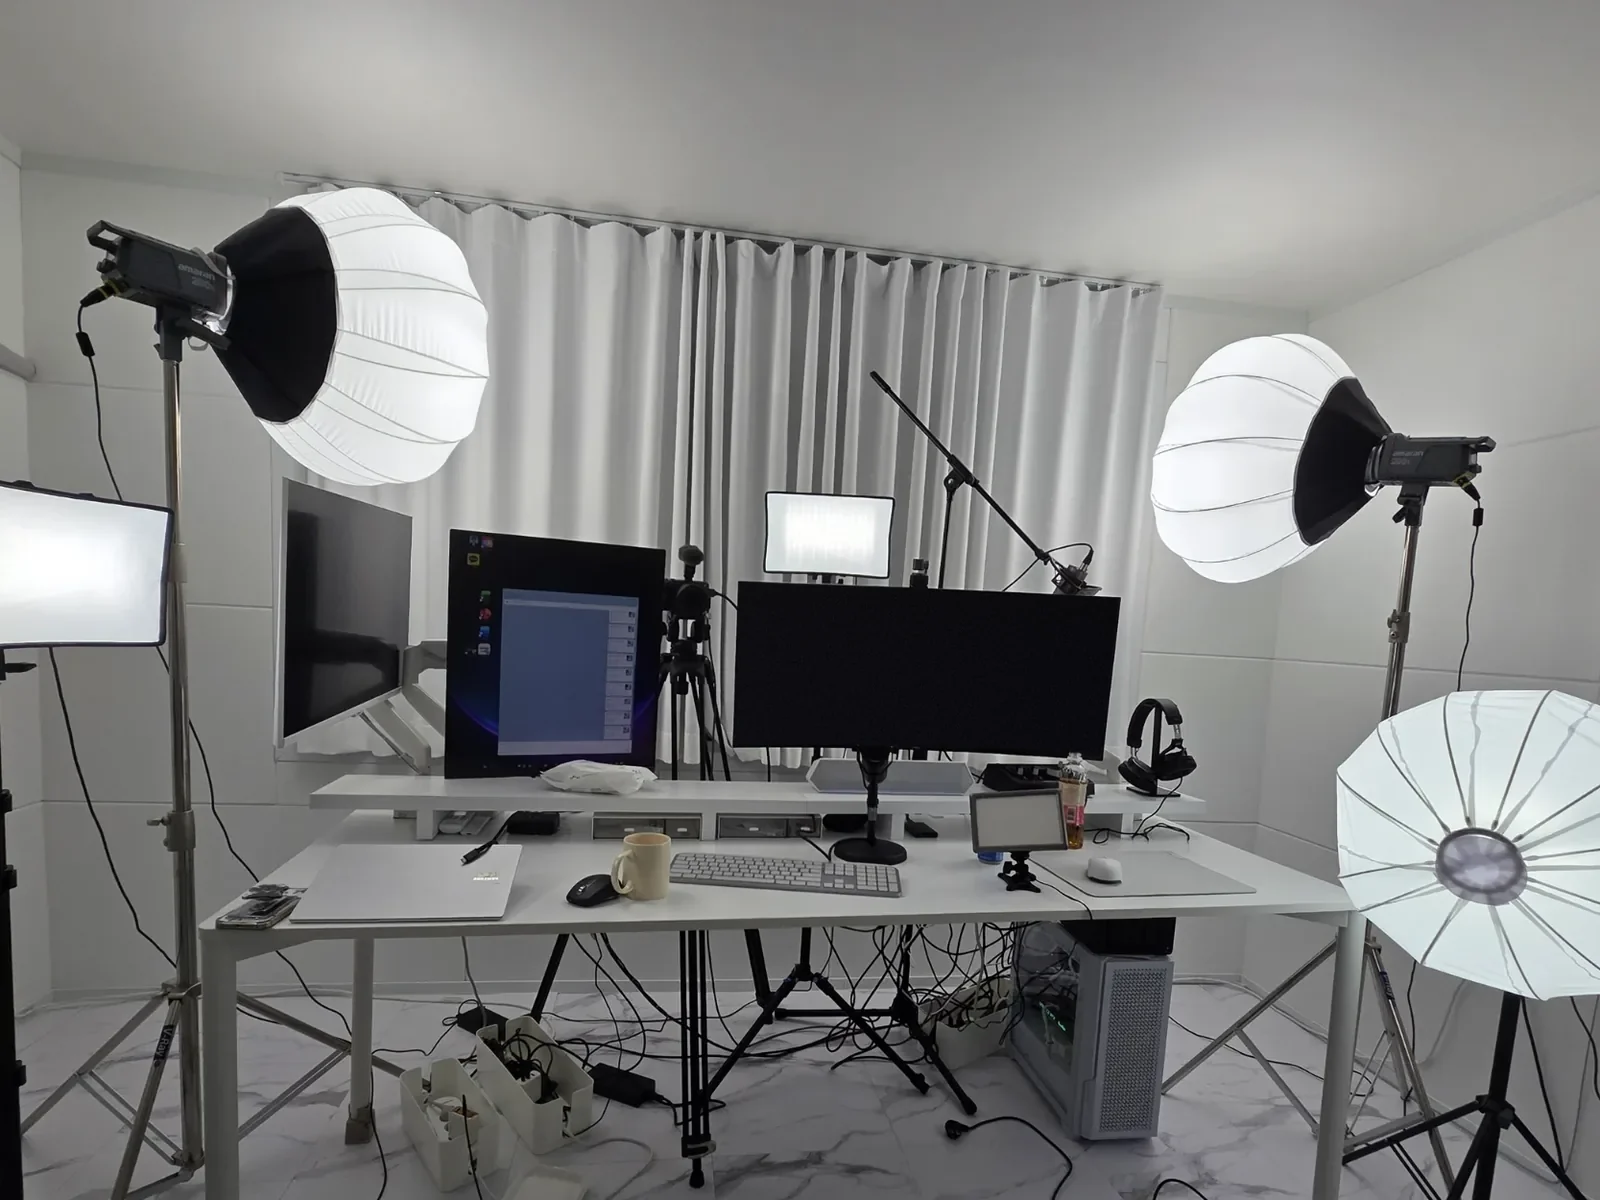
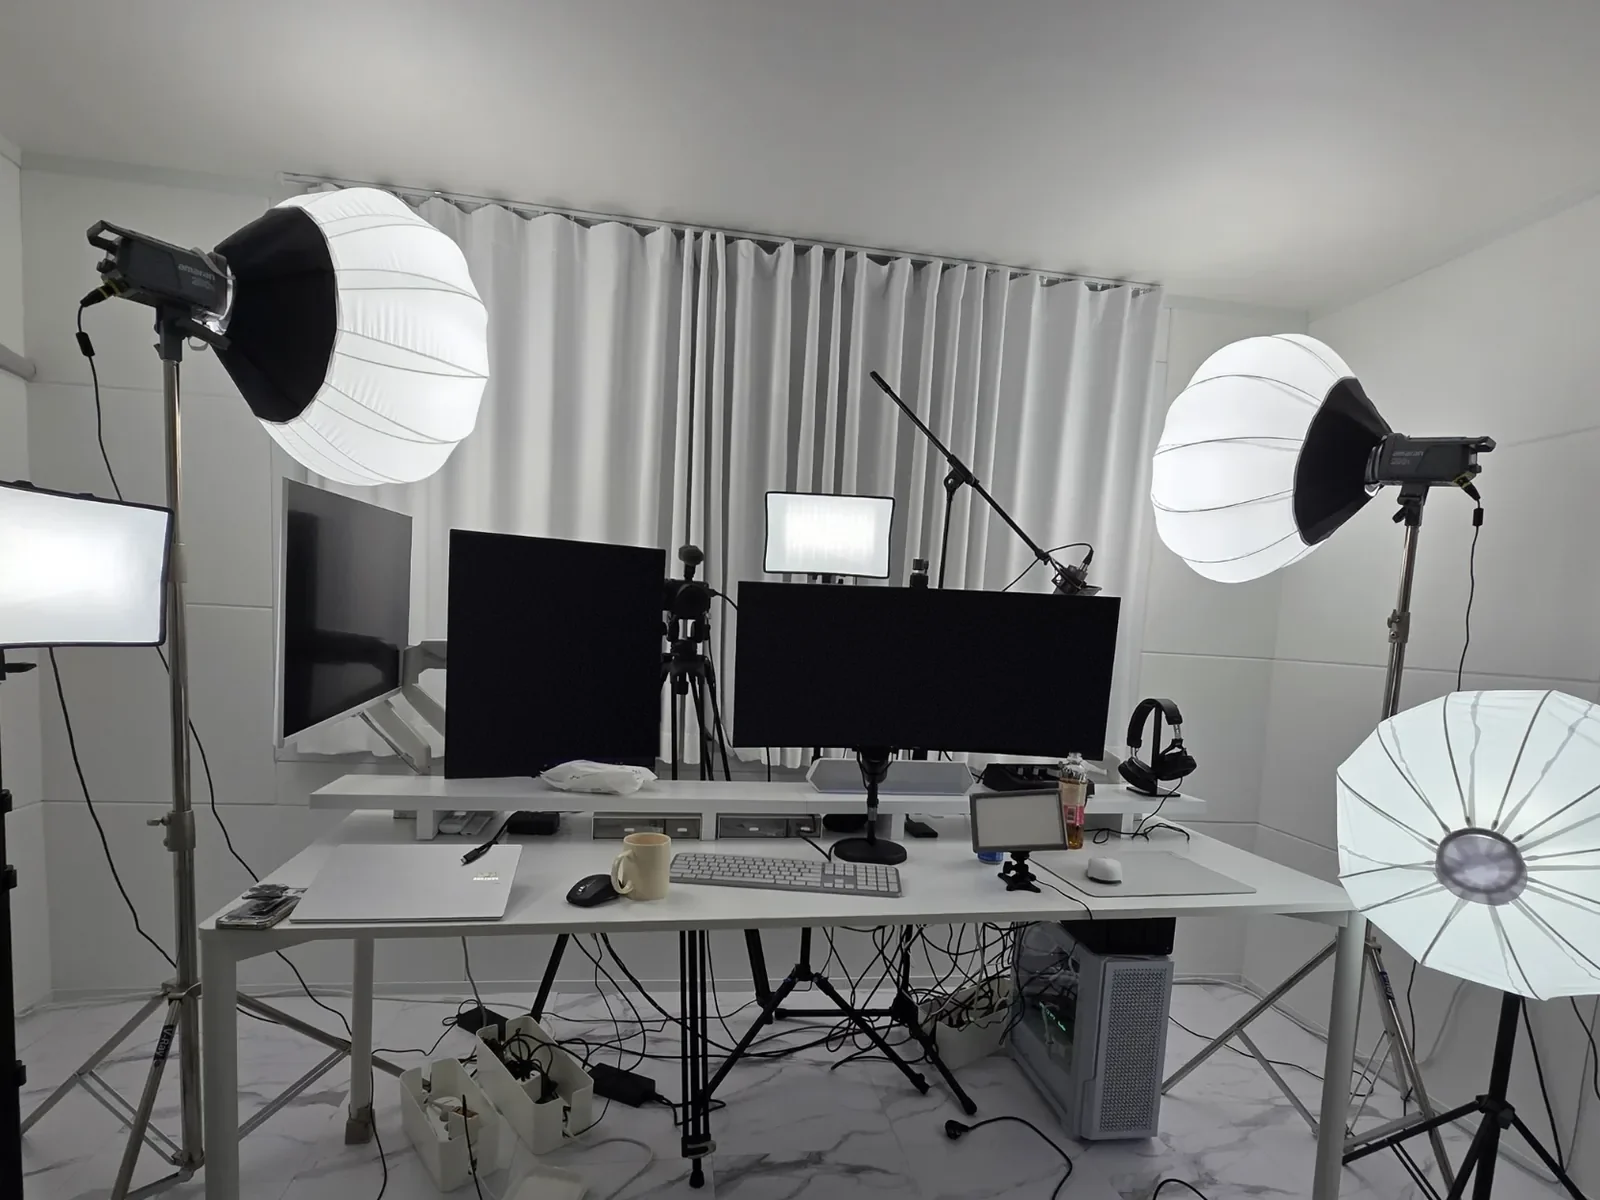
스튜디오 사진 왼쪽 모니터도 검게, 개척형 크리에이터 모바일 첫 사진을 요들랜드 시즌 2 장면으로
- 홈 카드 03: 왼쪽 세로 모니터 화면까지 검게 처리(두 모니터 톤 통일)
- 개척형 크리에이터 히어로: 760px 이하에서는 확성기 컷아웃 대신 시즌 2 촬영 장면 사진, 데스크톱은 그대로

Changed region(s): [[0.2812, 0.4933, 0.4062, 0.6475]]

diff --git a/index.html b/index.html
@@ -625,6 +625,7 @@ h1[tabindex="-1"]:focus{outline:none}
 .cv-hero__fig img{position:absolute;bottom:0;left:50%;width:auto;height:113%;max-width:none;transform:translateX(-46%);filter:drop-shadow(0 18px 28px rgba(11,11,15,.16));
   clip-path:inset(-100% -100% 0 -100%)} /* the shadow may spill up and sideways, never below the panel */
 .cv-hero__fig .cv-ghost{left:50%;top:.2em;transform:translateX(-50%);font-size:clamp(84px,8.6vw,124px);color:var(--cv-ghost-hero)}
+.cv-hero__fig .cv-hero__shot{display:none}
 .cv-hero__sub{margin-top:12px;font-size:15.5px;line-height:1.7;color:var(--ink-3);max-width:44em}
 
 /* 01 IMAGINE */
@@ -767,6 +768,10 @@ h1[tabindex="-1"]:focus{outline:none}
   .cv-tl__panel{grid-row:2;margin-right:0;padding-right:clamp(22px,3.6vw,52px)}
     }
 @media (max-width:760px){
+  /* phones: a full studio frame reads better than the cut-out at this size */
+  .cv-hero .cv-hero__fig{height:auto;aspect-ratio:1200/664;overflow:hidden}
+  .cv-hero__fig .cv-bg,.cv-hero__fig .cv-hero__cut{display:none}
+  .cv-hero__fig .cv-hero__shot{display:block;position:static;width:100%;height:100%;max-width:100%;object-fit:cover;transform:none;filter:none;clip-path:none}
   .cv-yopd{grid-template-columns:minmax(0,1fr);margin-top:clamp(40px,8vw,56px)}
   .cv-yopd__txt{padding-bottom:0}
   .cv-yopd__fig{justify-self:end;width:clamp(160px,42vw,220px);margin:-8px -4px 0 0}
@@ -1419,7 +1424,7 @@ h1[tabindex="-1"]:focus{outline:none}
             <p>광고비 0원 틱톡 1,960만 회, 자체 제작 중간광고 약 54억 원 매체 효과, 105억 원 B2B 수주. 실패한 파일럿 데이터까지 보여 드립니다.</p></div>
         </article>
         <article class="card feat hoverzoom rv">
-          <figure class="media"><img src="assets/img/home-studio-room.webp?v=2" alt="조명과 모니터, 카메라, 마이크를 갖춘 이홍연의 개인 촬영 스튜디오" width="1600" height="1200" loading="lazy"></figure>
+          <figure class="media"><img src="assets/img/home-studio-room.webp?v=3" alt="조명과 모니터, 카메라, 마이크를 갖춘 이홍연의 개인 촬영 스튜디오" width="1600" height="1200" loading="lazy"></figure>
           <div class="feat__body"><span class="feat__no">03</span><h3 class="h-3">지금도 매주 만들고,<br>연구합니다</h3>
             <p>개인 스튜디오에서 AI-Native 제작과 콘텐츠 기획, 미디어 산업과 플랫폼을 연구합니다.</p></div>
         </article>
@@ -1756,7 +1761,8 @@ h1[tabindex="-1"]:focus{outline:none}
     </div>
     <figure class="cv-hero__fig">
       <span class="cv-bg" aria-hidden="true"><span class="cv-ghost">YODEL</span></span>
-      <img src="assets/img/cv/hero-megaphone.webp" alt="파란 요들 의상에 모자를 쓰고 확성기로 외치는 이홍연" width="545" height="1000" loading="lazy">
+      <img class="cv-hero__cut" src="assets/img/cv/hero-megaphone.webp" alt="파란 요들 의상에 모자를 쓰고 확성기로 외치는 이홍연" width="545" height="1000" loading="lazy">
+      <img class="cv-hero__shot" src="assets/img/yd-s2-trio.webp" alt="요들 의상을 입고 마이크 앞에 앉아 요들 동작을 따라 하는 이홍연과 출연진, 요들랜드 시즌 2 영상 장면" width="1200" height="664" loading="lazy">
     </figure>
   </section>
   <section class="wrap" style="padding-bottom:clamp(24px,3vw,40px)">
